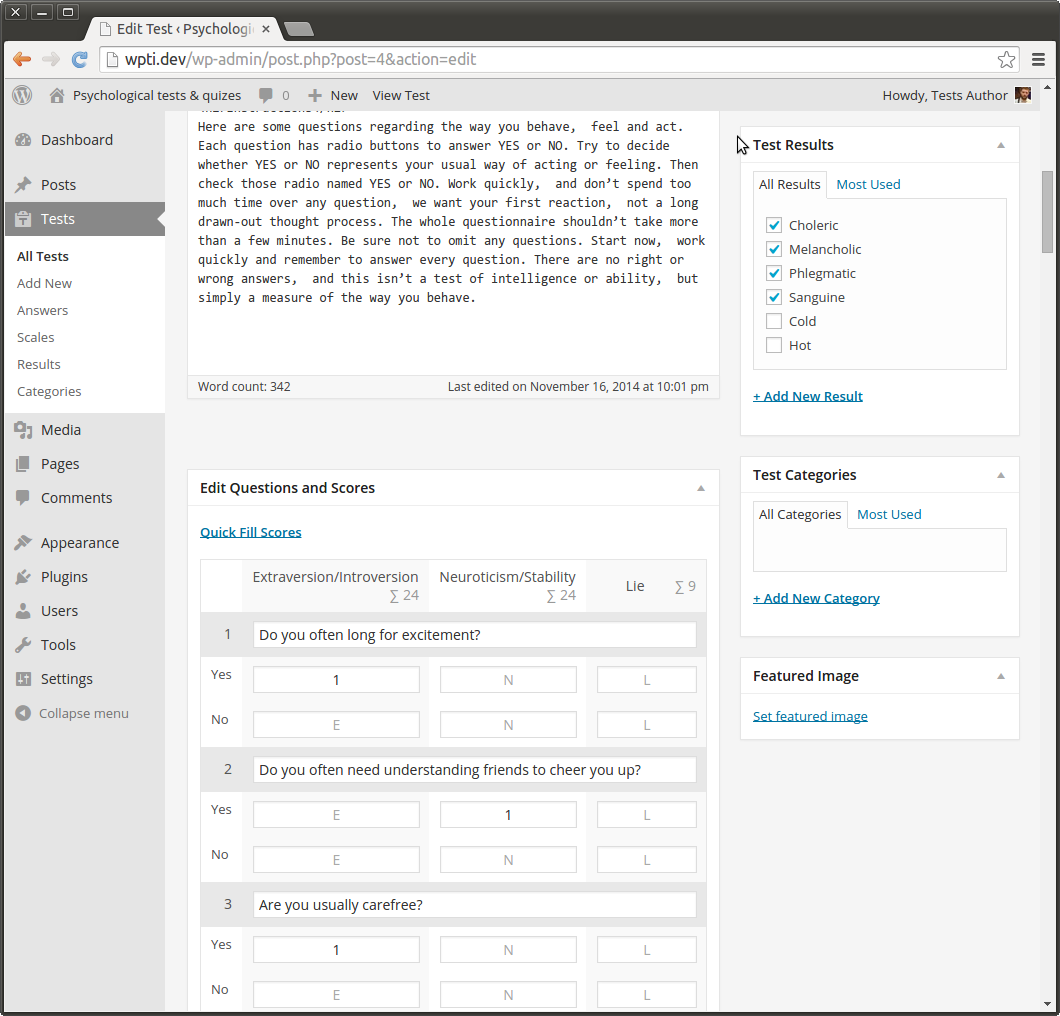
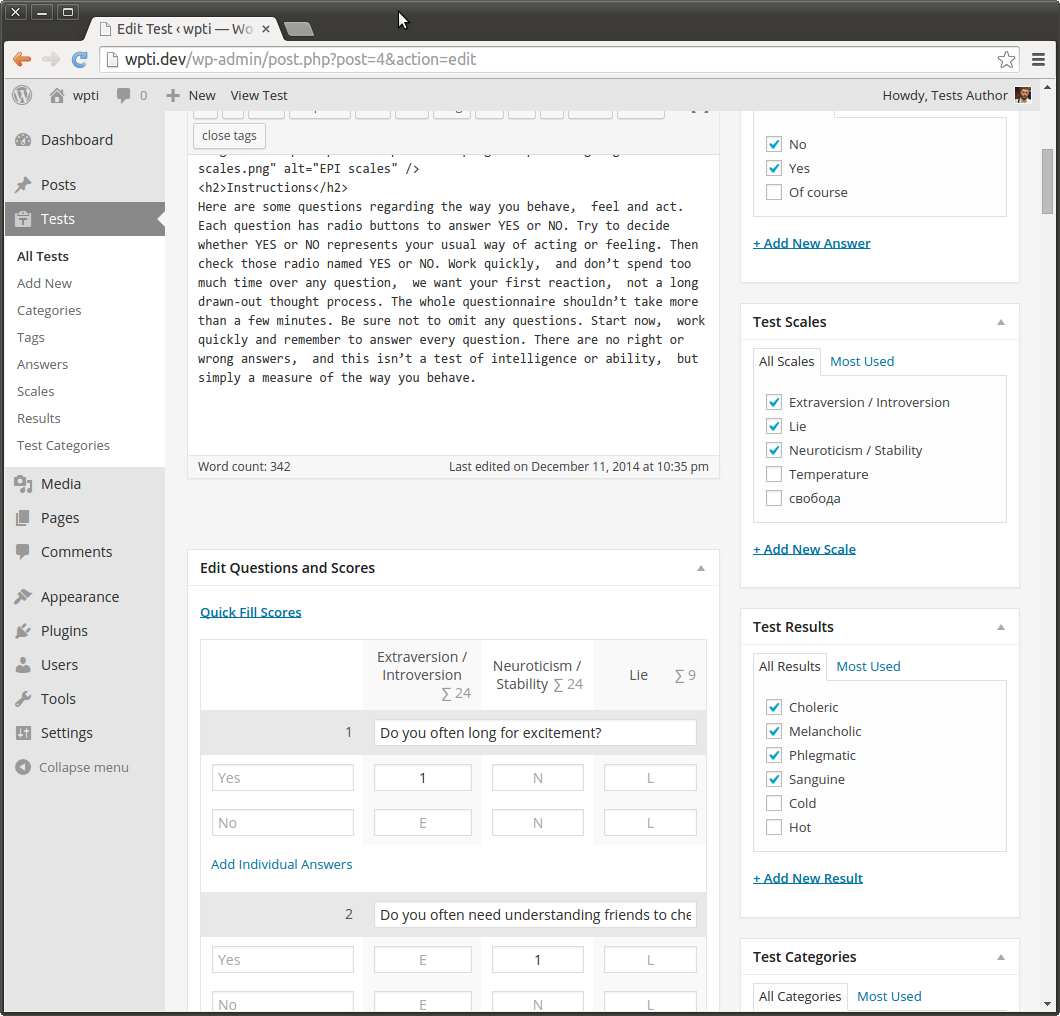
Update screenshots to add individual answers in em

diff --git a/README.md b/README.md
@@ -61,9 +61,9 @@ PS: **If something broken or doesn't work**, pls create new topic in ["Support" 
 ## Screenshots ##
 
 01. Test editing section with menu in admin
-02. Test editing section. There are fast acces buttons like "add new questions" at the top of the page. The choise of answers and scales is available in the sidebar.
-03. Here we can see "Edit Questions and Scores" box where every scale has a sum of scores
-04. The "Quick Fill Scores" box is opened that allows us quickly enter scores from the questions separated by commas
+02. Test editing section. There are fast acces buttons like "add new questions" at the top of the page. The choise of answers and scales is available in the sidebar
+03. Here we can see "Edit Questions and Scores" box where every scale has a sum of scores. Also we can add to each question individual answers
+04. The "Quick Fill Scores" box is opened that allows us quickly enter scores from the questions separated by commas. "Add Individual Answers" box also opened but it tells us to use "Test Answers" in case when answers are same
 05. Fast adding questions from text
 06. Editing formulas
 07. Ready test on the home page
@@ -72,5 +72,5 @@ PS: **If something broken or doesn't work**, pls create new topic in ["Support" 
 10. Get test results after all questions are answered
 11. The results page
 12. The result page contains both the result of the test and the scales that create a result
-13. The example of the test without  scores
-14. A test without scores is shown like a "Test is under construction"
+13. The example of the test without  scores. Some answers are individual and some are individualized
+14. A test without scores is shown like a "Test is under construction". Answers titles are those that was entered
